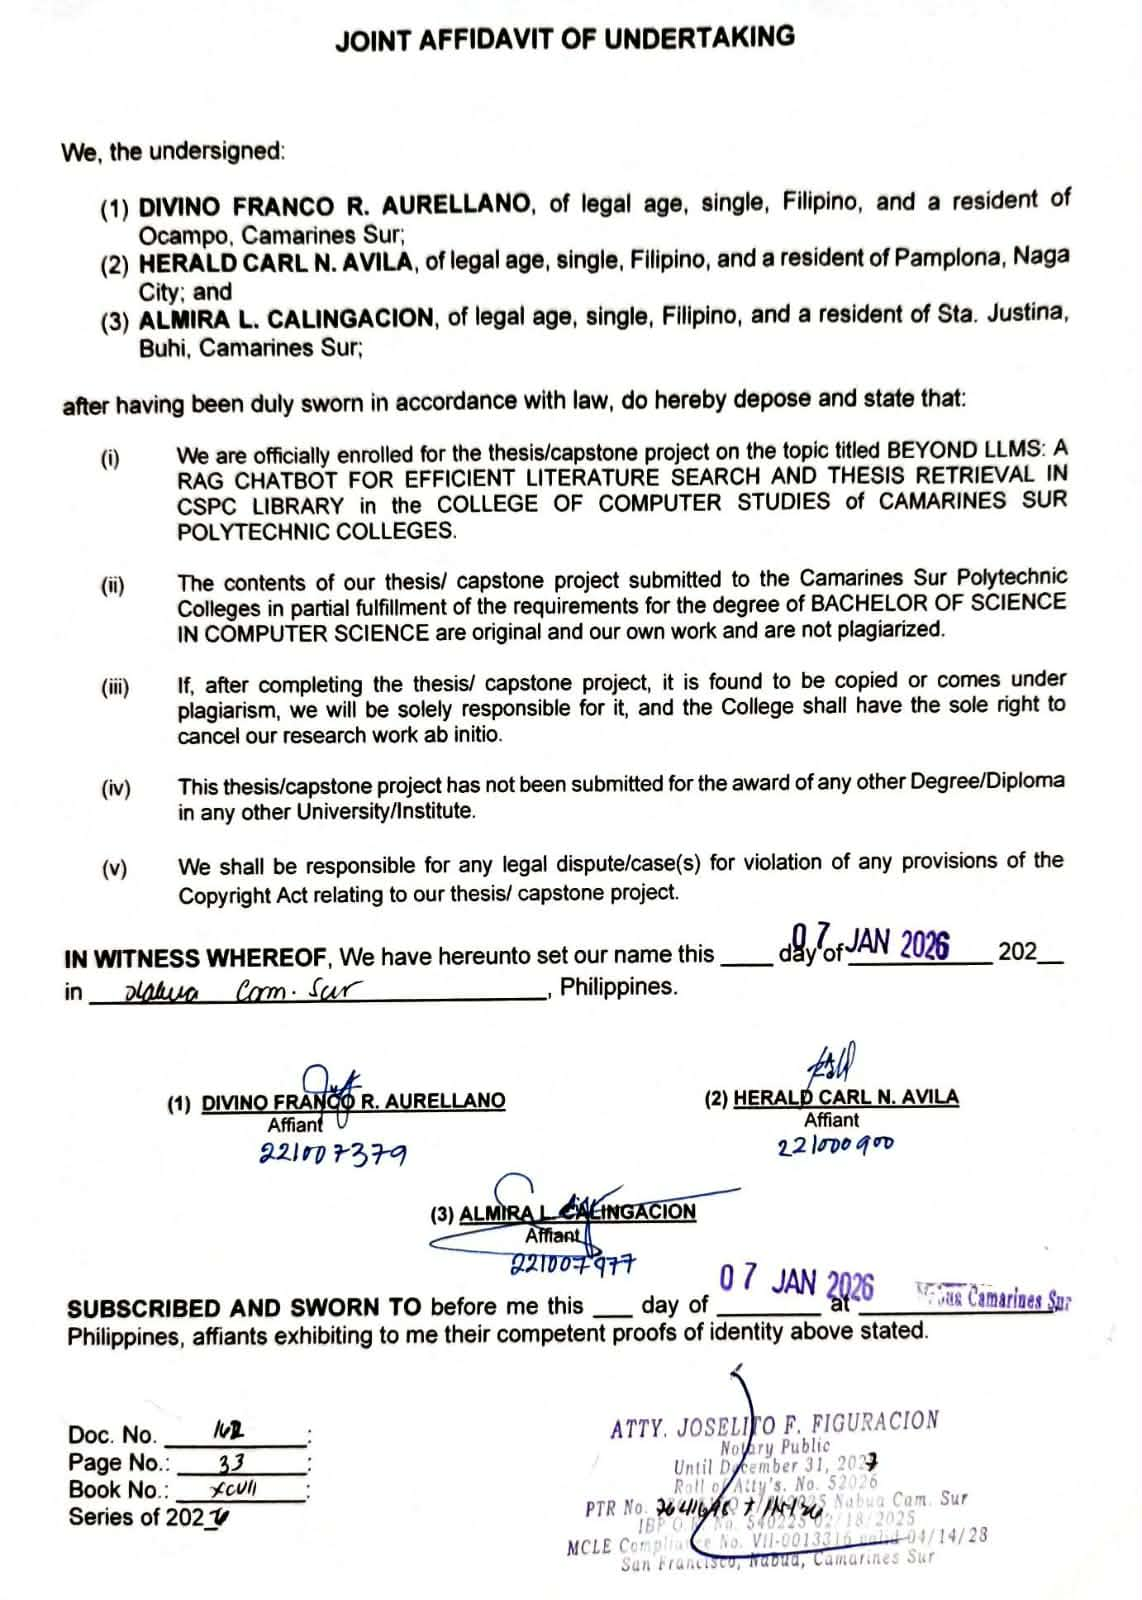
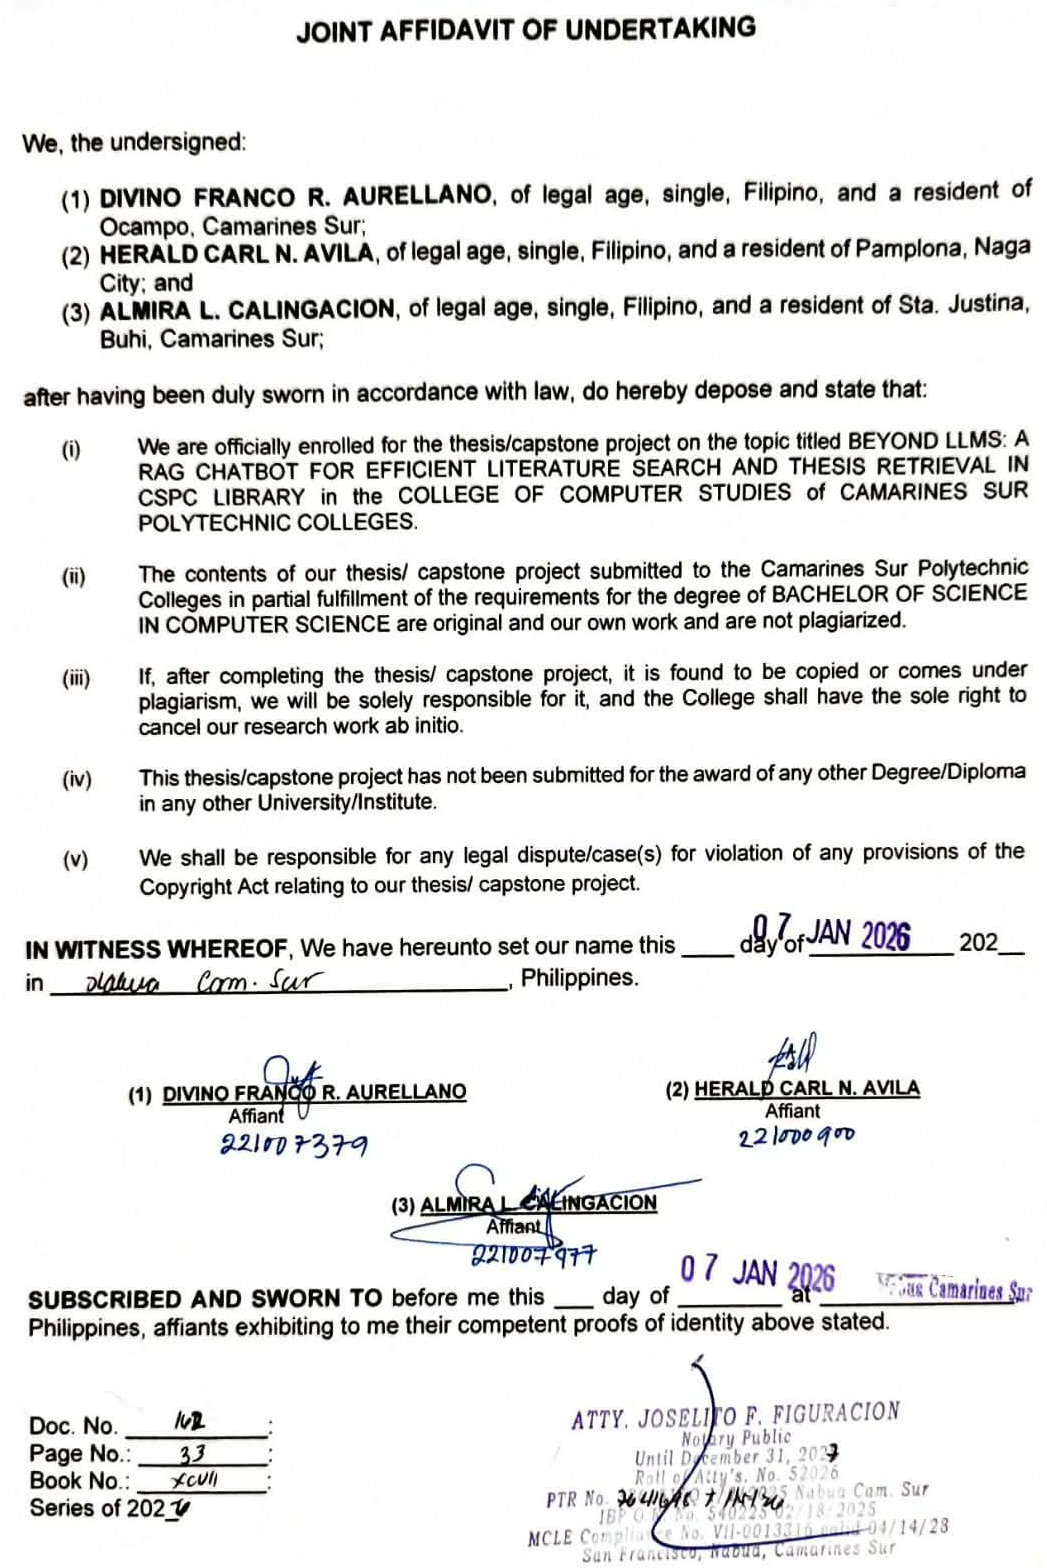
update appendices

Changed region(s): [[0.0, 0.0625, 1.0, 1.0], [0.6113, 0.6562, 0.8863, 0.75], [0.2751, 0.0, 0.7335, 0.0312]]

diff --git a/chapters/appendix.tex b/chapters/appendix.tex
@@ -461,9 +461,10 @@ Your response has been successfully submitted. We sincerely appreciate you contr
 
 
 \chapter{Joint Affidavit of Undertaking (Plagiarism)}
+\centering
     \begin{figure}[ht]
         \centering
-        \includegraphics[width=0.90\textwidth]{appendices/affidavit.jpg}
+        \includegraphics[width=0.76\textwidth]{appendices/affidavit.jpg}
     \end{figure}
 
 
